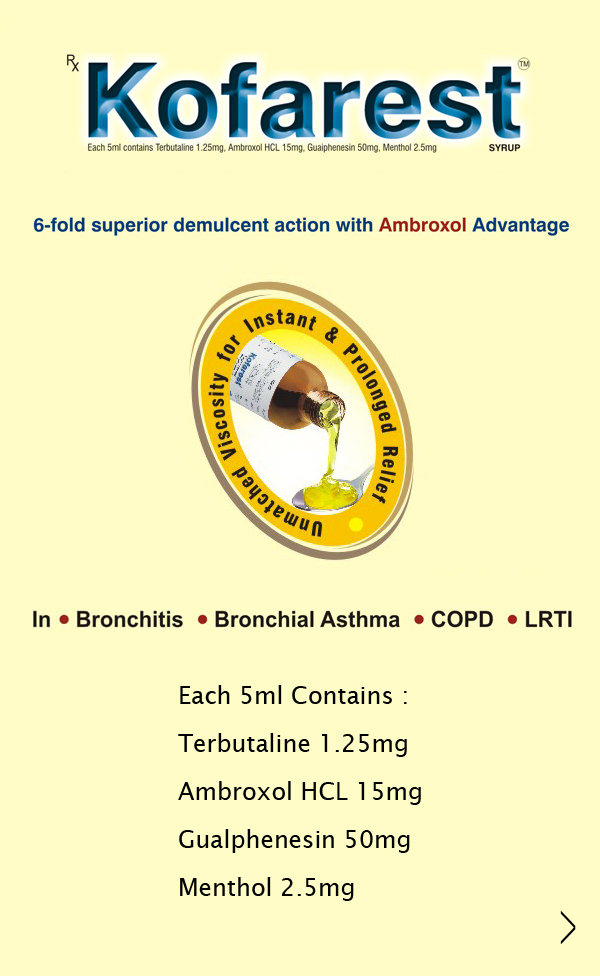
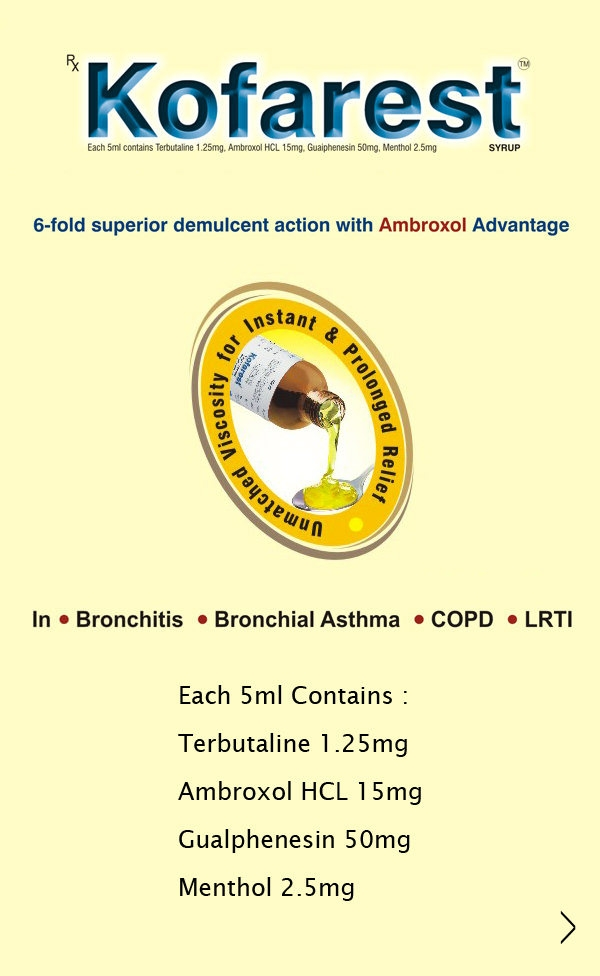
new

Changed region(s): [[0.33, 0.3074, 0.66, 0.5533], [0.06, 0.2152, 0.63, 0.2459], [0.78, 0.2152, 0.96, 0.2459]]

diff --git a/index.html b/index.html
@@ -97,7 +97,7 @@ $(window).load(function() {
 	<div class="flexslider" style="width:100%">
   <ul class="slides">
     <li>
-      <img src="images/centamol_01.JPG" />
+      <img src="images/kofarest_01.JPG" />
     </li>
     <li>
       <img src="images/kofarest_02.JPG" />
